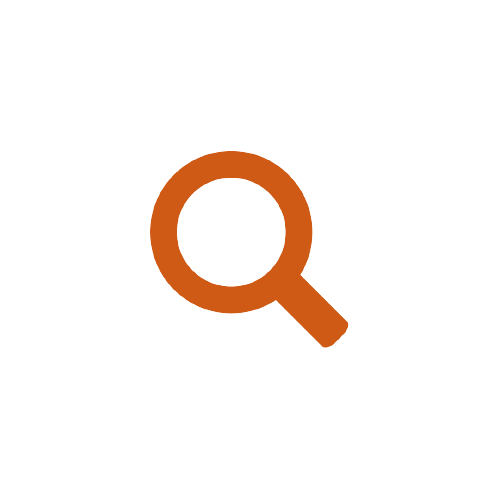
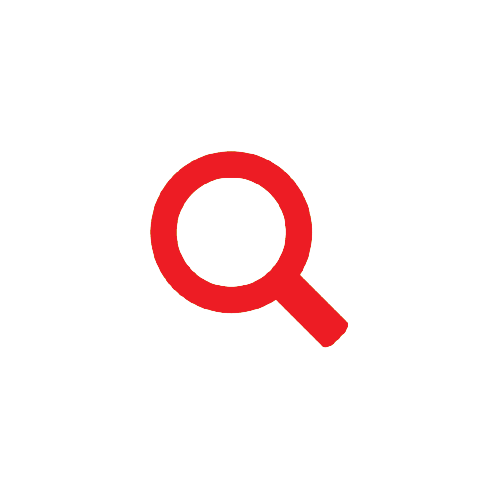
alter:ColoroOfProject

Changed region(s): [[0.3, 0.3, 0.72, 0.69]]

diff --git a/style/index.css b/style/index.css
@@ -44,7 +44,7 @@ h1{
 
 a{
     text-decoration: none;
-    color: orangered;
+    color: red;
 }
 .center{
     display: flex;
@@ -105,7 +105,7 @@ th{
     text-align: center;
     /* display: flex; */
     color: white;
-    background-color: rgb(206, 89, 21);
+    background-color: rgb(199, 21, 21);
     
     /* align-items: center;
     justify-content: center; */
@@ -129,12 +129,12 @@ tr:nth-child(even) {
 } 
 tr:hover{
     transition: 0.5s;
-    background-color: rgb(233, 162, 120);
+    background-color: rgb(233, 120, 120);
 }
 
 tr.colorir {
     transition: 0.3s;
-    background-color:rgb(228, 131, 62);
+    background-color:rgb(228, 62, 62);
     
 }
 
@@ -174,7 +174,7 @@ tr.colorir {
     padding: 10px;
     margin: 15px;
     background-color: whitesmoke;
-    color: orangered;
+    color:red;
     border-radius: 8px;
     font-weight: bold;
     border: none;
@@ -222,7 +222,7 @@ tr.colorir {
 }
 
 .input-group_input:is(:focus) {
-    outline-color: orangered;
+    outline-color: rgb(199, 21, 21);
 }
 
 

diff --git a/style/cad.css b/style/cad.css
@@ -68,7 +68,7 @@ img{
 }
 
 .input-group_input:is(:focus) {
-    outline-color: orangered;
+    outline-color: rgb(199, 21, 21);;
 }
 
 .input-group_label {
@@ -146,7 +146,7 @@ img{
 
 h1 {
     text-align: center;
-    background-color: rgb(240, 88, 33);
+    background-color: rgb(199, 21, 21);
     padding: 15px;
     margin: 0;
     border-radius: 10px;
@@ -187,14 +187,14 @@ form {
 }
 
 .btn{
-    background-color:rgb(240, 88, 33);;
+    background-color:rgb(199, 21, 21);
     padding: 5px;
     color: white;
     border-radius: 5px; 
     border: none; 
     transition: 0.5s;
     width: 100%;
-    border: 1px solid rgb(240, 88, 33);
+    border: 1px solid rgb(199, 21, 21);
 }
 
 .btn:hover{
